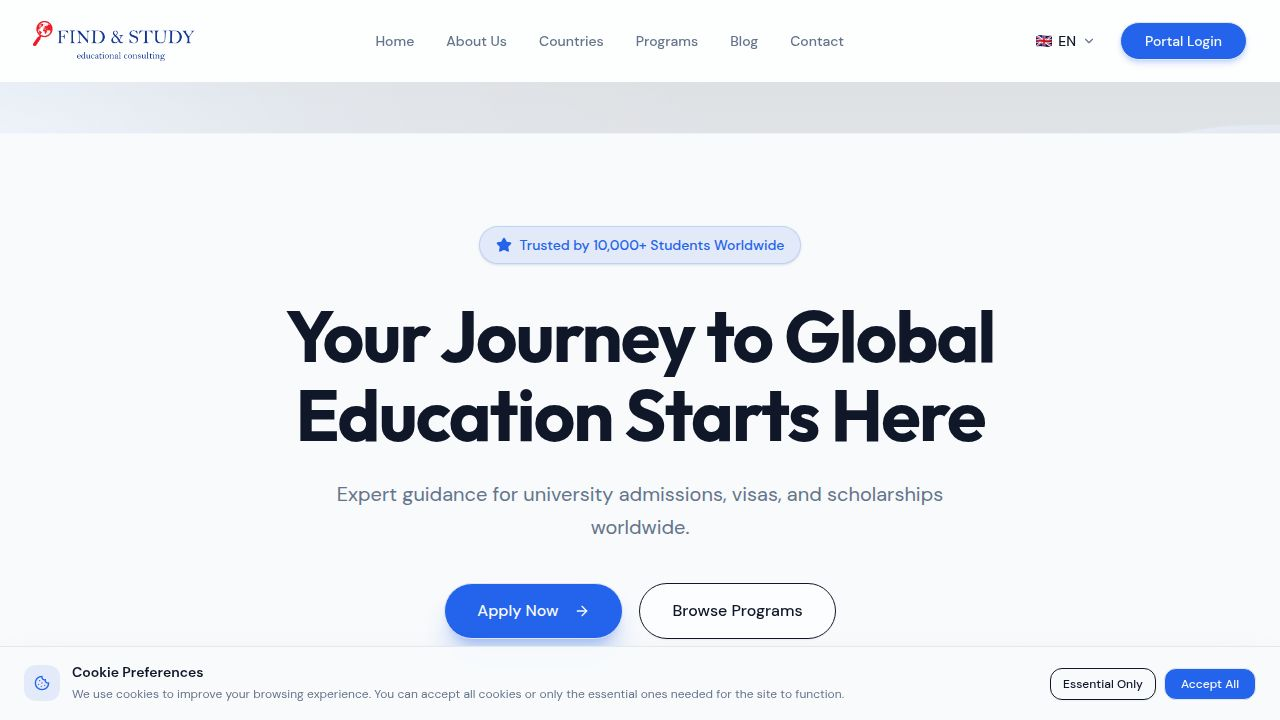
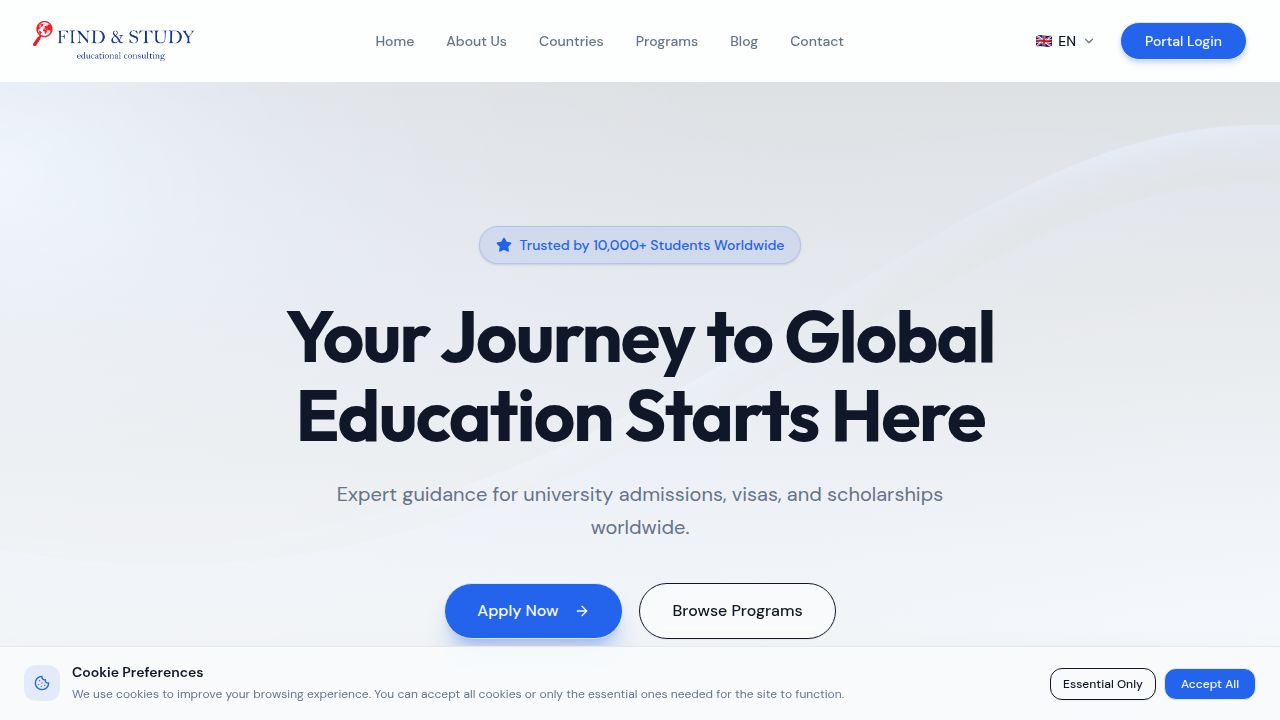
Task #46: Omnichannel Inbox MVP — race-safety + idempotency hardening
Verified end-to-end implementation of the omnichannel inbox MVP per
.local/tasks/omnichannel-inbox-mvp.md (WhatsApp + Web Form), then closed
the two P1 data-integrity gaps surfaced during code review.

Verifications (all green):
- Webhook ingestion at POST /api/webhooks/web-form/:formId works.
- Identity resolver matches by phoneE164/email; otherwise marks unmatched.
- /staff/messages UI: channel pills, tabs (Mine / Unassigned / Unmatched
  / All), conversation detail with unmatched banner, assign-to-me, match
  buttons; assignment moves the conversation into "Mine".
- /staff/settings IntegrationsManager shows the production-only banner
  alongside WhatsApp Business + Web Form cards (with embed snippet).
- /api/inbox/live-mode returns {live:false} in dev; outbound WhatsApp
  is correctly gated to simulated mode via isLiveIntegrationsEnabled().
- Notification rules include inbox.new_message / inbox.unmatched /
  inbox.assigned / inbox.send_failed.
- en.json + tr.json carry full inbox.* strings; other locales fall back
  to EN per spec.
- One-time normalize-phones script ran successfully against existing
  rows; conversations.channel default backfill is a no-op (rows
  inserted under the column default).

Hardening applied this round:
- artifacts/api-server/src/lib/inbox/channels/webForm.ts —
  parseWebFormPayload now derives a deterministic SHA-256 content hash
  for externalMessageId when no submission_id/id is present (with a
[…]

Changed region(s): [[0.4688, 0.1833, 0.9062, 0.2444], [0.9688, 0.2444, 1.0, 0.275]]

diff --git a/artifacts/api-server/src/lib/inbox/processInbound.ts b/artifacts/api-server/src/lib/inbox/processInbound.ts
@@ -53,27 +53,43 @@ export async function processInboundMessage(opts: {
   const { channel, channelAccountId = null, contact, message } = opts;
   const phoneE164 = toE164(contact.phone || null);
 
-  const [existingContact] = await db
-    .select()
-    .from(externalContactsTable)
-    .where(and(eq(externalContactsTable.channel, channel), eq(externalContactsTable.externalId, contact.externalId)));
+  // Race-safe upsert: insert with onConflictDoNothing on the (channel, externalId)
+  // unique index. If the row already exists OR was inserted concurrently by
+  // another worker, refetch it. This eliminates select-then-insert TOCTOU.
+  const [insertedContact] = await db
+    .insert(externalContactsTable)
+    .values({
+      channel,
+      externalId: contact.externalId,
+      displayName: contact.displayName || null,
+      phone: contact.phone || null,
+      phoneE164,
+      email: contact.email ? String(contact.email).toLowerCase() : null,
+      metadata: contact.metadata || {},
+    })
+    .onConflictDoNothing({
+      target: [externalContactsTable.channel, externalContactsTable.externalId],
+    })
+    .returning();
 
-  let externalContact = existingContact;
+  let externalContact = insertedContact;
   if (!externalContact) {
-    const [created] = await db
-      .insert(externalContactsTable)
-      .values({
-        channel,
-        externalId: contact.externalId,
-        displayName: contact.displayName || null,
-        phone: contact.phone || null,
-        phoneE164,
-        email: contact.email ? String(contact.email).toLowerCase() : null,
-        metadata: contact.metadata || {},
-      })
-      .returning();
-    externalContact = created;
-  } else {
+    const [refetched] = await db
+      .select()
+      .from(externalContactsTable)
+      .where(
+        and(
+          eq(externalContactsTable.channel, channel),
+          eq(externalContactsTable.externalId, contact.externalId),
+        ),
+      );
+    externalContact = refetched;
+    if (!externalContact) {
+      throw new Error("processInbound: external contact upsert returned no row");
+    }
+  }
+  // Refresh metadata on the canonical row when not freshly inserted.
+  if (insertedContact === undefined) {
     await db
       .update(externalContactsTable)
       .set({
@@ -181,6 +197,11 @@ export async function processInboundMessage(opts: {
         eq(conversationsTable.channelAccountId, channelAccountId),
         eq(conversationsTable.externalThreadId, externalThreadId),
       );
+  // Race-safe conversation upsert. The unique index is
+  // (channel_account_id, external_thread_id) — when channelAccountId is null
+  // we can't rely on the partial unique constraint catching duplicates, so
+  // fall back to select-then-insert (acceptable: null channelAccountId only
+  // occurs in legacy/unconfigured paths with low concurrency).
   let conversation = (
     await db
       .select()
@@ -190,7 +211,7 @@ export async function processInboundMessage(opts: {
   )[0];
 
   if (!conversation) {
-    const [created] = await db
+    const insertResult = await db
       .insert(conversationsTable)
       .values({
         type: "external",
@@ -208,26 +229,30 @@ export async function processInboundMessage(opts: {
           ? { source: channel, subAgent: subAgentMatch }
           : { source: channel },
       })
+      .onConflictDoNothing({
+        target: [conversationsTable.channelAccountId, conversationsTable.externalThreadId],
+      })
       .returning();
-    conversation = created;
+    if (insertResult.length > 0) {
+      conversation = insertResult[0];
+    } else {
+      // Concurrent insert won the race — refetch the canonical conversation row.
+      const [refetched] = await db
+        .select()
+        .from(conversationsTable)
+        .where(convIdentityWhere)
+        .limit(1);
+      conversation = refetched;
+      if (!conversation) {
+        throw new Error("processInbound: conversation upsert returned no row");
+      }
+    }
   }
 
-  const [existingMsg] = await db
-    .select({ id: messagesTable.id })
-    .from(messagesTable)
-    .where(and(eq(messagesTable.channel, channel), eq(messagesTable.externalMessageId, message.externalMessageId)));
-
-  if (existingMsg) {
-    return {
-      conversationId: conversation.id,
-      messageId: existingMsg.id,
-      externalContactId: externalContact.id,
-      duplicate: true,
-      unmatched: !isLinked,
-    };
-  }
-
-  const [inserted] = await db
+  // Race-safe message insert. The unique index on (channel, externalMessageId)
+  // doubles as our dedupe guarantee — a duplicate webhook delivery is dropped
+  // by the DB and we report `duplicate: true` after a refetch.
+  const insertedRows = await db
     .insert(messagesTable)
     .values({
       conversationId: conversation.id,
@@ -239,7 +264,30 @@ export async function processInboundMessage(opts: {
       sentAt: message.receivedAt || new Date(),
       metadata: message.metadata || {},
     })
+    .onConflictDoNothing({
+      target: [messagesTable.channel, messagesTable.externalMessageId],
+    })
     .returning();
+
+  if (insertedRows.length === 0) {
+    const [existingMsg] = await db
+      .select({ id: messagesTable.id })
+      .from(messagesTable)
+      .where(
+        and(
+          eq(messagesTable.channel, channel),
+          eq(messagesTable.externalMessageId, message.externalMessageId),
+        ),
+      );
+    return {
+      conversationId: conversation.id,
+      messageId: existingMsg?.id ?? 0,
+      externalContactId: externalContact.id,
+      duplicate: true,
+      unmatched: !isLinked,
+    };
+  }
+  const inserted = insertedRows[0];
 
   await db
     .update(conversationsTable)

diff --git a/artifacts/edcons/src/pages/staff/Tasks.tsx b/artifacts/edcons/src/pages/staff/Tasks.tsx
@@ -1,4 +1,5 @@
 import { useEffect, useMemo, useRef, useState, useCallback } from "react";
+import { useLocation } from "wouter";
 import { DashboardLayout } from "@/components/layout/DashboardLayout";
 import { useAuth } from "@/hooks/use-auth";
 import { useI18n } from "@/hooks/use-i18n";
@@ -208,6 +209,17 @@ export default function TasksPage() {
   const [notesTask, setNotesTask] = useState<Task | null>(null);
   const [newNoteText, setNewNoteText] = useState("");
   const [addingNote, setAddingNote] = useState(false);
+  // Note id to scroll into view + highlight when arriving from a
+  // notification deep-link. Cleared when the dialog closes.
+  const [highlightedNoteId, setHighlightedNoteId] = useState<string | null>(null);
+  // Whether we still owe the targeted note a scrollIntoView call after
+  // the notes dialog has mounted. Set together with highlightedNoteId
+  // and reset once the scroll has happened.
+  const scrollPendingRef = useRef<string | null>(null);
+  // Tracks the deep-link query string we've already consumed so we don't
+  // re-open the dialog if the user closes it manually.
+  const consumedDeepLinkRef = useRef<string | null>(null);
+  const [, setLocation] = useLocation();
   // Mention autocomplete state for the note textarea.
   const [noteMentionIds, setNoteMentionIds] = useState<number[]>([]);
   const [mentionQuery, setMentionQuery] = useState<string | null>(null);
@@ -249,6 +261,64 @@ export default function TasksPage() {
   useEffect(() => {
     if (user) void loadAssignees();
   }, [user, loadAssignees]);
+
+  // Deep-link handler: when arriving at /staff/tasks?taskId=N(&noteId=...)
+  // automatically open that task's notes dialog and (when noteId is given)
+  // mark the matching note for scroll + highlight. The query string is
+  // consumed once and cleared so back-navigation and manual close-and-reopen
+  // behave normally.
+  useEffect(() => {
+    if (!user || tasks.length === 0) return;
+    if (typeof window === "undefined") return;
+    const search = window.location.search;
+    if (!search) return;
+    if (consumedDeepLinkRef.current === search) return;
+    const params = new URLSearchParams(search);
+    const taskIdRaw = params.get("taskId");
+    if (!taskIdRaw) return;
+    const taskId = Number(taskIdRaw);
+    if (!Number.isFinite(taskId)) return;
+    const target = tasks.find(t => t.id === taskId);
+    if (!target) return;
+    consumedDeepLinkRef.current = search;
+    setNotesTask(target);
+    const noteId = params.get("noteId");
+    if (noteId) {
+      setHighlightedNoteId(noteId);
+      scrollPendingRef.current = noteId;
+    }
+    // Strip the query string from the URL so back-nav and manual reopens
+    // do not retrigger this effect.
+    setLocation("/staff/tasks", { replace: true });
+  }, [user, tasks, setLocation]);
+
+  // Once the notes dialog is mounted with a highlighted note, scroll that
+  // note into view. We use a small timeout so the radix Dialog content has
+  // had a chance to mount and lay out before we query the DOM.
+  useEffect(() => {
+    if (!notesTask || !highlightedNoteId) return;
+    if (scrollPendingRef.current !== highlightedNoteId) return;
+    const noteId = highlightedNoteId;
+    const timer = window.setTimeout(() => {
+      const el = document.querySelector(
+        `[data-testid="note-text-${CSS.escape(noteId)}"]`,
+      );
+      if (el && typeof (el as HTMLElement).scrollIntoView === "function") {
+        (el as HTMLElement).scrollIntoView({ block: "center", behavior: "smooth" });
+      }
+      scrollPendingRef.current = null;
+    }, 80);
+    return () => window.clearTimeout(timer);
+  }, [notesTask, highlightedNoteId]);
+
+  // Clear the highlight ring when the notes dialog closes so the next
+  // open of the same task doesn't keep the stale highlight.
+  useEffect(() => {
+    if (!notesTask) {
+      setHighlightedNoteId(null);
+      scrollPendingRef.current = null;
+    }
+  }, [notesTask]);
 
   function openCreate() {
     setEditingTask(null);
@@ -1032,8 +1102,15 @@ export default function TasksPage() {
                     const mentionIds = Array.isArray(n.mentions) ? n.mentions : [];
                     const dedupMentionIds = Array.from(new Set(mentionIds));
                     const youAreMentioned = user?.id != null && dedupMentionIds.includes(user.id);
+                    const isHighlighted = highlightedNoteId === n.id;
                     return (
-                    <div key={n.id} className="rounded-md border bg-muted/40 p-2 group">
+                    <div
+                      key={n.id}
+                      data-testid={`note-${n.id}`}
+                      className={`rounded-md border bg-muted/40 p-2 group transition-shadow ${
+                        isHighlighted ? "ring-2 ring-primary shadow-md" : ""
+                      }`}
+                    >
                       <div className="flex items-start gap-2">
                         <p
                           className="flex-1 text-sm whitespace-pre-wrap break-words"

diff --git a/artifacts/api-server/src/lib/inbox/channels/webForm.ts b/artifacts/api-server/src/lib/inbox/channels/webForm.ts
@@ -35,9 +35,26 @@ export function parseWebFormPayload(payload: unknown): WebFormSubmission | null 
   if (!payload || typeof payload !== "object") return null;
   const p = payload as Record<string, unknown>;
   const text = String(p.message || p.text || p.body || "").trim();
-  const externalMessageId = String(
-    p.submission_id || p.id || `${Date.now()}_${Math.random().toString(36).slice(2, 8)}`,
-  );
+  // Idempotency: prefer caller-supplied submission_id/id. When absent (most plain
+  // HTML form posts), derive a deterministic content hash so retries of the same
+  // submission collapse to the same externalMessageId. Includes a coarse 1-hour
+  // bucket so legitimate re-submissions later (e.g. user retries the next day)
+  // are not silently de-duped.
+  const explicitId = p.submission_id || p.id;
+  let externalMessageId: string;
+  if (explicitId) {
+    externalMessageId = String(explicitId);
+  } else {
+    const hourBucket = Math.floor(Date.now() / (60 * 60 * 1000));
+    const hashInput = JSON.stringify({
+      formId: p.form_id ?? null,
+      email: p.email ?? null,
+      phone: p.phone ?? null,
+      text,
+      bucket: hourBucket,
+    });
+    externalMessageId = `wf_${crypto.createHash("sha256").update(hashInput).digest("hex").slice(0, 24)}`;
+  }
   const externalThreadId = String(
     p.thread_id || p.email || p.phone || externalMessageId,
   );

diff --git a/artifacts/api-server/src/routes/tasks.ts b/artifacts/api-server/src/routes/tasks.ts
@@ -292,7 +292,7 @@ router.post("/tasks/:id/notes", requireAuth, async (req, res): Promise<void> => 
       event: "task.mention",
       title: `${authorName} mentioned you in a task`,
       body: `${authorName} mentioned you in a note on "${task.title}": ${snippet}`,
-      actionUrl: `/staff/tasks?taskId=${task.id}`,
+      actionUrl: `/staff/tasks?taskId=${task.id}&noteId=${note.id}`,
       icon: "AtSign",
       recipientUserIds: validMentions,
       templateVars: {